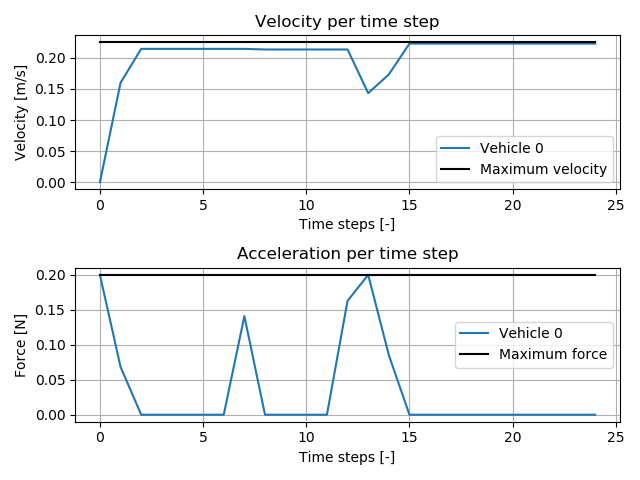
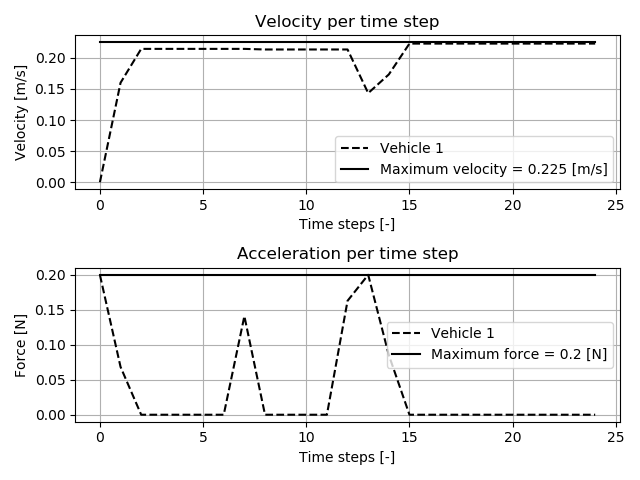
Finished performance

diff --git a/src/main.py b/src/main.py
@@ -185,6 +185,8 @@ if __name__ == '__main__':
     # plt.show()
 
     if performance_graphs:  # Plot the velocity and acceleration of the vehicles
+        line_styles = ["--", ":", "-.", '-', '-']
+        marker_styles = ['None', 'None', 'None', 'x', 'None']
         # Plot the velocity
         fig = plt.subplot(2,1,1)
         plt.xlabel('Time steps [-]')
@@ -199,12 +201,12 @@ if __name__ == '__main__':
                 v_coords_y.append(vehicles[j].vy[i].x)
                 V_coords.append(sqrt(vehicles[j].vy[i].x ** 2 + vehicles[j].vx[i].x ** 2))
             n_steps = len(V_coords)
-            fig.plot(range(len(V_coords)), V_coords, label= "Vehicle " + str(j))
+            fig.plot(range(len(V_coords)), V_coords, color = 'black', label= "Vehicle " + str(j+1), linestyle = line_styles[j], marker = marker_styles[j])
             v_coords_x = []
             v_coords_y = []
             V_coords = []
         # Plot the maximum velocity
-        fig.plot(range(n_steps), [vehicles[0].v_max]*n_steps, color = 'black', label="Maximum velocity")
+        fig.plot(range(n_steps), [vehicles[0].v_max]*n_steps, color = 'black', label="Maximum velocity = " + str(vehicles[0].v_max) + ' [m/s]', linestyle = line_styles[4], marker = marker_styles[4])
         plt.legend()
         plt.grid(True)
 
@@ -222,12 +224,12 @@ if __name__ == '__main__':
                 f_coords_y.append(vehicles[j].fy[i].x)
                 f_coords.append(sqrt(vehicles[j].fy[i].x ** 2 + vehicles[j].fx[i].x ** 2))
 
-            plt.plot(range(n_steps), f_coords, label= "Vehicle " + str(j))
+            plt.plot(range(n_steps), f_coords, color='black', label= "Vehicle " + str(j+1), linestyle = line_styles[j], marker = marker_styles[j])
             f_coords_x = []
             f_coords_y = []
             f_coords = []
         # Plot the maximum force
-        fig2.plot(range(n_steps), [vehicles[0].f_max] * n_steps, color='black', label="Maximum force")
+        fig2.plot(range(n_steps), [vehicles[0].f_max] * n_steps, color='black', label="Maximum force = " + str(vehicles[0].f_max) + ' [N]', linestyle = line_styles[4], marker = marker_styles[4])
         plt.legend()
         plt.grid(True)
         plt.tight_layout()  # Make sure the titles and labels are visible
